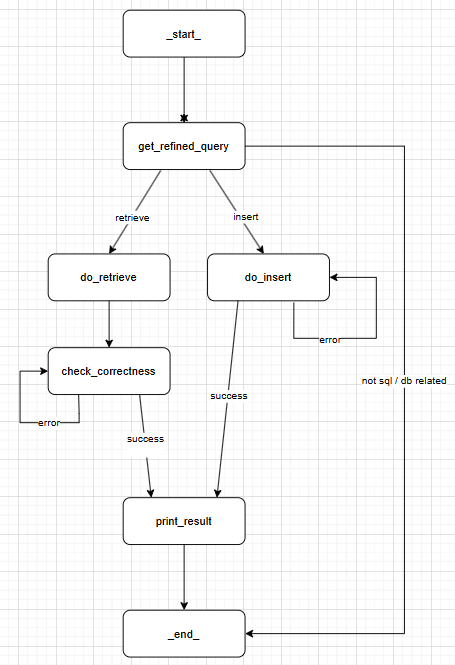
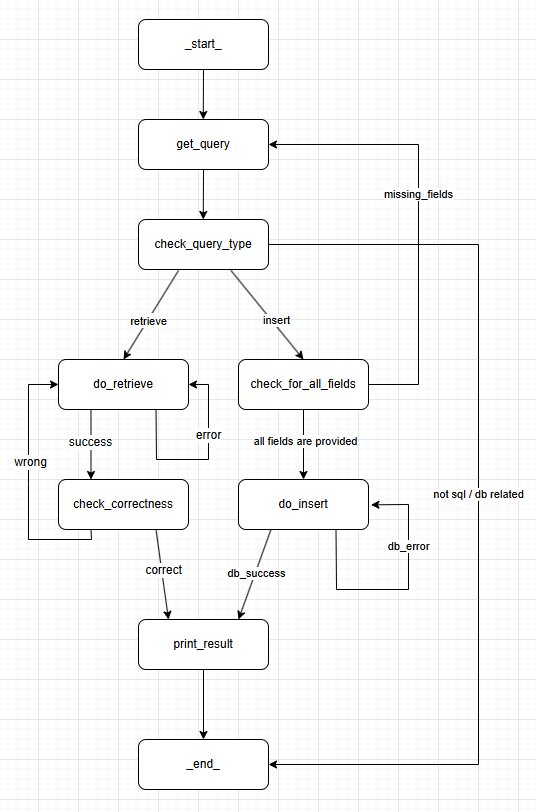
Started working at the insert part. Updated the insert logic

diff --git a/app.py b/app.py
@@ -23,6 +23,8 @@ class State(TypedDict):
     correct: bool
     suggested_new_query: str
     sql_answer: str
+    insert_status: str
+    missing_fields: bool
 
 template_prompt = """
 This is the user's prompt: {initial_prompt}. 
@@ -36,6 +38,15 @@ Examples:
 - *RETRIEVE*     
 - *ERROR*
 """
+
+
+def get_query(state: State):
+    if not state["missing_fields"]:
+        state["prompt"] = input("Enter your prompt: ")
+        return state
+    else:
+        state["prompt"] = input("Enter your prompt. Your previous insert prompt had missing fields:\n")
+        return state
 
 
 def check_query_type(state: State):
@@ -66,27 +77,49 @@ def do_type_route(state: State):
 
 
 template_prompt_1 = """
-You are a PostgreSQL prompts solver.
-This is the user's prompt: {initial_prompt}
-This is the database structure: {db_info}
-If there is content in the suggested_new_query: {suggested_new_query}, it means that an attempt was already made. Check the content of that and take that into consideration.
-Otherwise, if suggested_new_query is empty, just ignore it.
+# PostgreSQL Query Generation Prompt
 
-I want you to create a PostgreSQL query that solves the prompt. 
+"I need a PostgreSQL query that fulfills this request: {initial_prompt}
 
-STEPS:
-1. Read the database structure.
-2. Check the user's prompt and the enhanced prompt and decide what to do.
-2.1 (Optional Step, just if there is content in suggested_new_query). Take into consideration the content of suggested_new_query.
-3. Be careful to use only tables and columns from {db_info}. Also, make sure there is a valid link between the tables and columns you use.
-4. Make sure you use valid aliases in a valid way. Also, make sure you use only valid PostgreSQL keywords and functions.
-5. Provide JUST THE POSTGRESQL QUERY. !Important! No markdowns, headers, or other explanations. I want only the SQL query.
+## Database Context
+Available tables:
+- users (user_id, first_name, last_name, age, registration_date)
+- products (product_id, product_name, product_desc, price)
+- orders (order_id, user_id, date)
+- orders_content (orders_content_id, order_id, product_id, units)
+
+Relationships:
+- orders.user_id → users.user_id
+- orders_content.order_id → orders.order_id
+- orders_content.product_id → products.product_id
+
+## Goal
+- Create a valid PostgreSQL query matching the user's request
+- Use only the specified tables/columns with proper joins
+- Validate all foreign key relationships
+- Return ONLY the raw SQL query (no explanations)
+
+## Return Format
+A single PostgreSQL query in plain text format
+
+## Warnings
+- Reject any tables/columns not in the provided schema
+- Ensure proper joins using the documented relationships
+- Validate date constraints (orders only cover 2025)
+- Check age non-negativity requirements
+- Handle decimal precision for price calculations
+
+## Context Dump
+User seeks data about: {initial_prompt}
+Special considerations: 
+- Order dates strictly within 2025
+- Age must be non-negative
+- Price calculations need proper decimal handling
 """
 
-
 def do_retrieve(state: State):
-    prompt = template_prompt_1.format(initial_prompt=state['prompt'], db_info=db_info, suggested_new_query=state['suggested_new_query'])
-    llm_result = askMistral(prompt)
+    retrieve_prompt = template_prompt_1.format(initial_prompt=state['prompt'], db_info=db_info, suggested_new_query=state['suggested_new_query'])
+    llm_result = askMistral(retrieve_prompt)
     print(llm_result)
     print("\n")
 
@@ -110,11 +143,41 @@ def do_retrieve_route(state: State):
 
 
 template_prompt_2 = """
-This is the user's prompt: {initial_prompt}
-This is the PostgreSQL query solution I have: {answer}
-Will my query produce the expected output? 
-Answer with yes / no on the first row. Please do not insert a space between the first and the second row.
-On the second row, do an explanation about the thing that causes the error and suggest a fix.
+# Query Validation Prompt
+
+"I need to verify if this PostgreSQL query: {answer}
+accurately solves: {initial_prompt}
+
+## Database Context
+Available tables:
+- users (user_id, first_name, last_name, age, registration_date)
+- products (product_id, product_name, product_desc, price)
+- orders (order_id, user_id, date)
+- orders_content (orders_content_id, order_id, product_id, units)
+
+## Goal
+- Confirm query matches all user requirements
+- Identify schema mismatches or logic errors
+- Validate all joins and constraints
+- Check for proper date filtering (2025 only)
+
+## Return Format
+First line: 'yes' or 'no' 
+Second line: Error explanation (if 'no') + fix suggestion
+
+## Warnings
+- Flag incorrect table/column references
+- Catch invalid joins missing relationship paths
+- Verify date constraints (orders.date must be in 2025)
+- Check age non-negativity enforcement
+- Validate decimal handling for price calculations
+
+## Context Dump
+Query purpose: {initial_prompt}
+Critical constraints:
+- All order dates must be in 2025
+- User ages cannot be negative
+- Price calculations require precision
 """
 
 
@@ -144,7 +207,12 @@ def check_correctness_route(state: State):
 
 
 def do_insert(state: State):
-    pass
+    try:
+        do_db_insert(state["sql_answer"])
+        state["insert_status"] = "SUCCESS"
+    except Exception as e:
+        state["insert_status"] = "ERROR"
+
 
 
 template_prompt_3 = """
@@ -156,7 +224,7 @@ In one line, compute a conclusion success message.
 
 def print_result(state: State):
     print("\nthe program entered the print_state\n")
-    print_prompt = template_prompt_3.format(initial_prompt=state["prompt"])
+    print_prompt = template_prompt_3.format(initial_prompt=state["prompt"], db_info=db_info)
     print_response = llm_model.invoke(print_prompt).content
     print(print_response)
 
@@ -167,13 +235,15 @@ def print_result(state: State):
 
 
 builder = StateGraph(State)
+builder.add_node("get_query", get_query)
 builder.add_node("check_query_type", check_query_type)
 builder.add_node("do_retrieve", do_retrieve)
 builder.add_node("check_correctness", check_correctness)
 builder.add_node("do_insert", do_insert)
 builder.add_node("print_result", print_result)
 
-builder.add_edge(START, "check_query_type")
+builder.add_edge(START, "get_query")
+builder.add_edge("get_query", "check_query_type")
 builder.add_conditional_edges("check_query_type", do_type_route, {
     "RETRIEVE": "do_retrieve",
     "INSERT": "do_insert",
@@ -185,8 +255,6 @@ builder.add_conditional_edges("do_retrieve", do_retrieve_route, {
     "SUCCESS": "check_correctness"
 })
 
-# builder.add_edge("check_correctness", END)
-
 builder.add_conditional_edges("check_correctness", check_correctness_route, {
     "CORRECT": "print_result",
     "INCORRECT": "do_retrieve"
@@ -194,13 +262,9 @@ builder.add_conditional_edges("check_correctness", check_correctness_route, {
 
 builder.add_edge("print_result", END)
 
-# keyboard_prompt = input("Enter your prompt: ")
-keyboard_prompt = "what is the average order cost?"
-keyboard_prompt1 = "whats the age of user with id 20?"
-keyboard_prompt2 = "insert a user with age 20 and name Todor"
-keyboard_prompt3 = "what is the color of the sky?"
+keyboard_prompt = input("Enter your prompt: ")
 
-initial_state = {"prompt": keyboard_prompt, "database_info": db_info, "type": "", "answer": "", "correct": "", "suggested_new_query": ""}
+initial_state = {"database_info": db_info, "type": "", "answer": "", "correct": "", "suggested_new_query": "", "missing_fields": False}
 
 graph = builder.compile()
 
